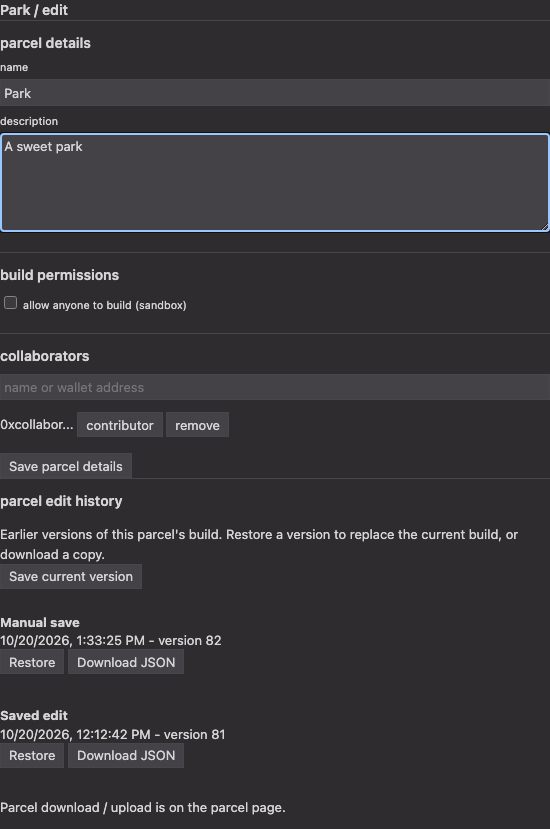
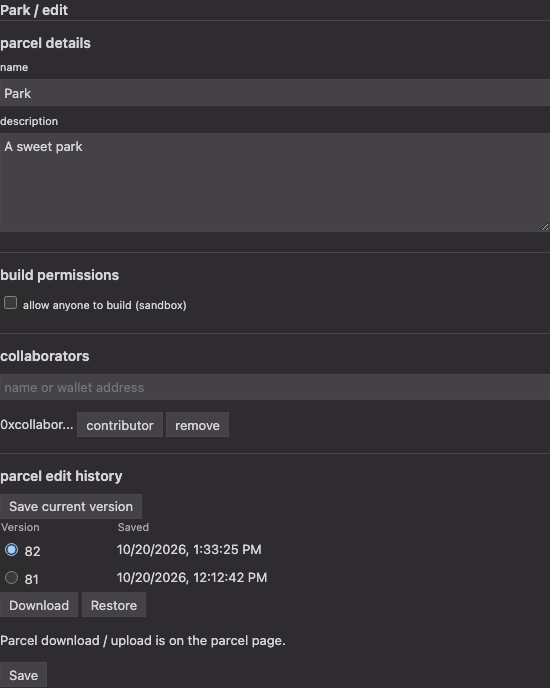
Compact parcel history into a selectable table

Changed region(s): [[0.0, 0.0, 1.0, 1.0], [0.9891, 0.5494, 1.0, 0.5799], [0.9891, 0.4578, 1.0, 0.4884]]

diff --git a/web/src/parcel-edit.tsx b/web/src/parcel-edit.tsx
@@ -31,6 +31,7 @@ export default function ParcelEdit(props: Props) {
   const [buildMaterial, setBuildMaterial] = useState(blocks[0].value)
   const [historyMessage, setHistoryMessage] = useState('')
   const [historyBusy, setHistoryBusy] = useState(false)
+  const [selectedId, setSelectedId] = useState<number>()
   const [historyLoading, setHistoryLoading] = useState(true)
 
   useEffect(() => {
@@ -51,6 +52,7 @@ export default function ParcelEdit(props: Props) {
       const d = await r.json()
       if (!r.ok || !d.success) throw new Error('Could not load parcel edit history.')
       setVersions(d.versions ?? [])
+      setSelectedId(d.versions?.[0]?.id)
     } catch (error) {
       setHistoryMessage(error instanceof Error ? error.message : 'Could not load parcel edit history.')
     } finally {
@@ -194,7 +196,7 @@ export default function ParcelEdit(props: Props) {
   )
 
   const form = (
-    <form onSubmit={submit}>
+    <form id="parcel-edit-form" onSubmit={submit}>
       <section class="inspector-section">
         <h2>parcel details</h2>
         <div class="f">
@@ -235,17 +237,14 @@ export default function ParcelEdit(props: Props) {
           )}
         </section>
       )}
-
-      <button type="submit" disabled={saving}>
-        {saving ? 'Saving...' : 'Save parcel details'}
-      </button>
     </form>
   )
+
+  const selectedVersion = versions.find((v) => v.id === selectedId)
 
   const history = (
     <section class="inspector-section" aria-label="Parcel edit history">
       <h2>parcel edit history</h2>
-      <p>Earlier versions of this parcel's build. Restore a version to replace the current build, or download a copy.</p>
       {isOwner && (
         <button type="button" disabled={historyBusy} onClick={saveVersion}>
           Save current version
@@ -253,26 +252,38 @@ export default function ParcelEdit(props: Props) {
       )}
       {historyMessage && <p role="status">{historyMessage}</p>}
       {historyLoading ? <p>Loading edit history...</p> : versions.length === 0 && !historyMessage ? <p>No saved versions yet.</p> : null}
-      <ul>
-        {versions.map((v) => (
-          <li key={v.id} style={{ padding: '1rem 0' }}>
-            <strong>{v.snapshot_name || (v.is_snapshot ? 'Manual save' : 'Saved edit')}</strong>
-            <div>
-              <time dateTime={v.updated_at}>{new Date(v.updated_at).toLocaleString()}</time> - version {v.id}
-            </div>
-            <div>
-              {isOwner && (
-                <button type="button" disabled={historyBusy} onClick={() => revert(v)}>
-                  Restore
-                </button>
-              )}{' '}
-              <button type="button" onClick={() => download(v)}>
-                Download JSON
-              </button>
-            </div>
-          </li>
-        ))}
-      </ul>
+      <div style={{ maxHeight: '10rem', overflowY: 'auto' }}>
+        <table>
+          <thead>
+            <tr>
+              <th scope="col">Version</th>
+              <th scope="col">Saved</th>
+            </tr>
+          </thead>
+          <tbody>
+            {versions.map((v) => (
+              <tr key={v.id}>
+                <td>
+                  <label>
+                    <input type="radio" name="parcel-version" value={v.id} checked={selectedId === v.id} onChange={() => setSelectedId(v.id)} /> {v.id}
+                  </label>
+                </td>
+                <td>
+                  <time dateTime={v.updated_at}>{new Date(v.updated_at).toLocaleString()}</time>
+                </td>
+              </tr>
+            ))}
+          </tbody>
+        </table>
+      </div>
+      <button type="button" disabled={!selectedVersion || historyBusy} onClick={() => selectedVersion && download(selectedVersion)}>
+        Download
+      </button>{' '}
+      {isOwner && (
+        <button type="button" disabled={!selectedVersion || historyBusy} onClick={() => selectedVersion && revert(selectedVersion)}>
+          Restore
+        </button>
+      )}
       <p>
         <a href={`/parcels/${props.id}`}>Parcel download / upload</a> is on the parcel page.
       </p>
@@ -296,6 +307,9 @@ export default function ParcelEdit(props: Props) {
         {title}
         {form}
         {history}
+        <button type="submit" form="parcel-edit-form" disabled={saving}>
+          {saving ? 'Saving...' : 'Save'}
+        </button>
       </article>
     </section>
   )

diff --git a/test/parcel-edit.test.ts b/test/parcel-edit.test.ts
@@ -1,5 +1,6 @@
 import { renderView, stubFetch } from './view-helper'
 import { h, render } from 'preact'
+import { act } from 'preact/test-utils'
 import { afterEach, expect, test, vi } from 'vitest'
 import ParcelEdit from '../web/src/parcel-edit'
 import { app } from '../web/src/state'
@@ -33,6 +34,11 @@ test('history has explicit actions, readable sections and no unlabeled upload', 
   expect(root.textContent).not.toContain('snapshot')
   expect(root.querySelector('input[type=file]')).toBeNull()
   expect(root.querySelectorAll('time')).toHaveLength(2)
+  expect(root.querySelectorAll('input[type=radio]')).toHaveLength(2)
+  expect([...root.querySelectorAll('button')].filter((el) => el.textContent === 'Download')).toHaveLength(1)
+  const save = root.querySelector('article')!.lastElementChild as HTMLButtonElement
+  expect(save.textContent).toBe('Save')
+  expect(save.getAttribute('form')).toBe('parcel-edit-form')
   const fetch = vi.spyOn(globalThis, 'fetch')
   root.querySelector('time')!.click()
   expect(fetch).not.toHaveBeenCalled()
@@ -54,7 +60,22 @@ test('failed save reports an error rather than success', async () => {
 test('collaborators can download history but owner-only history writes stay hidden', async () => {
   await mount('0xcollaborator')
   const buttons = [...root.querySelectorAll('button')].map((el) => el.textContent)
-  expect(buttons).toContain('Download JSON')
+  expect(buttons).toContain('Download')
   expect(buttons).not.toContain('Restore')
   expect(buttons).not.toContain('Save current version')
+})
+
+test('restore uses the selected version', async () => {
+  await mount()
+  const radio = root.querySelector('input[value="81"]') as HTMLInputElement
+  await act(() => {
+    radio.checked = true
+    radio.dispatchEvent(new Event('change', { bubbles: true }))
+  })
+  await vi.waitFor(() => expect(radio.checked).toBe(true))
+  vi.spyOn(window, 'confirm').mockReturnValue(true)
+  const fetch = vi.spyOn(globalThis, 'fetch').mockResolvedValue({ ok: true, json: async () => ({ success: true, versions }) } as any)
+  const restore = [...root.querySelectorAll('button')].find((el) => el.textContent === 'Restore')!
+  restore.click()
+  await vi.waitFor(() => expect(fetch).toHaveBeenCalledWith('/api/parcels/42/revert', expect.objectContaining({ body: JSON.stringify({ parcel_version_id: 81 }) })))
 })
